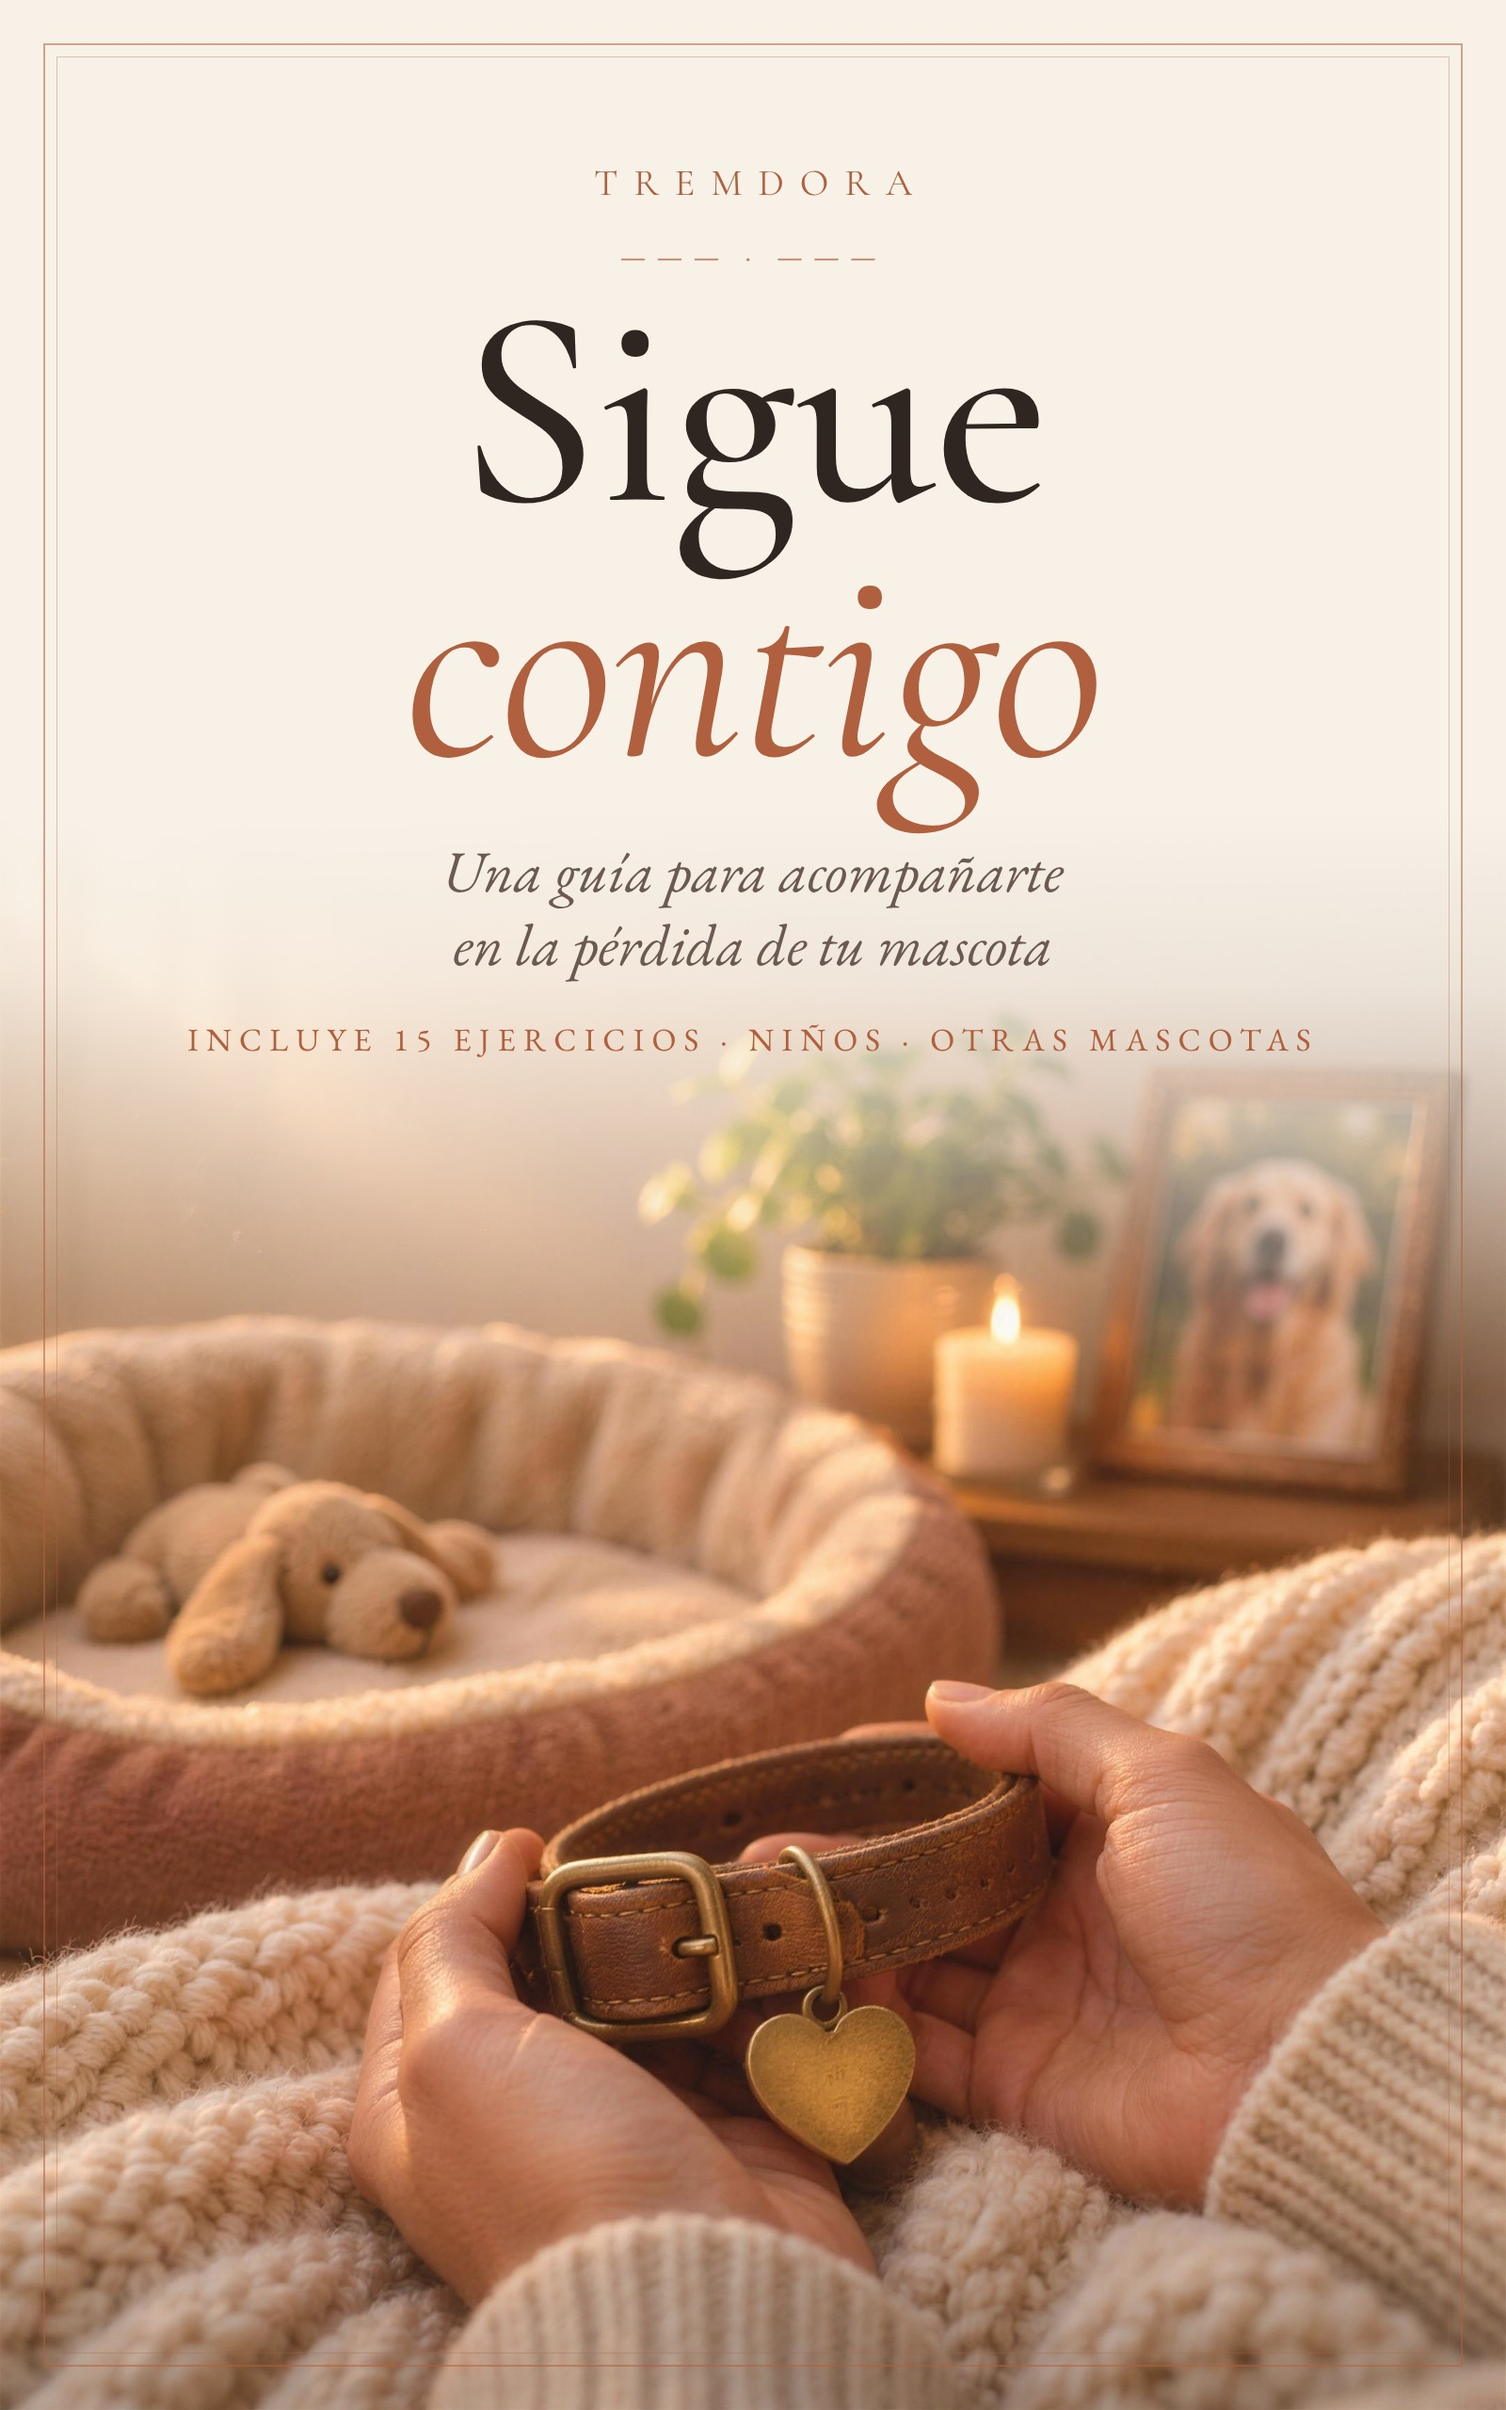
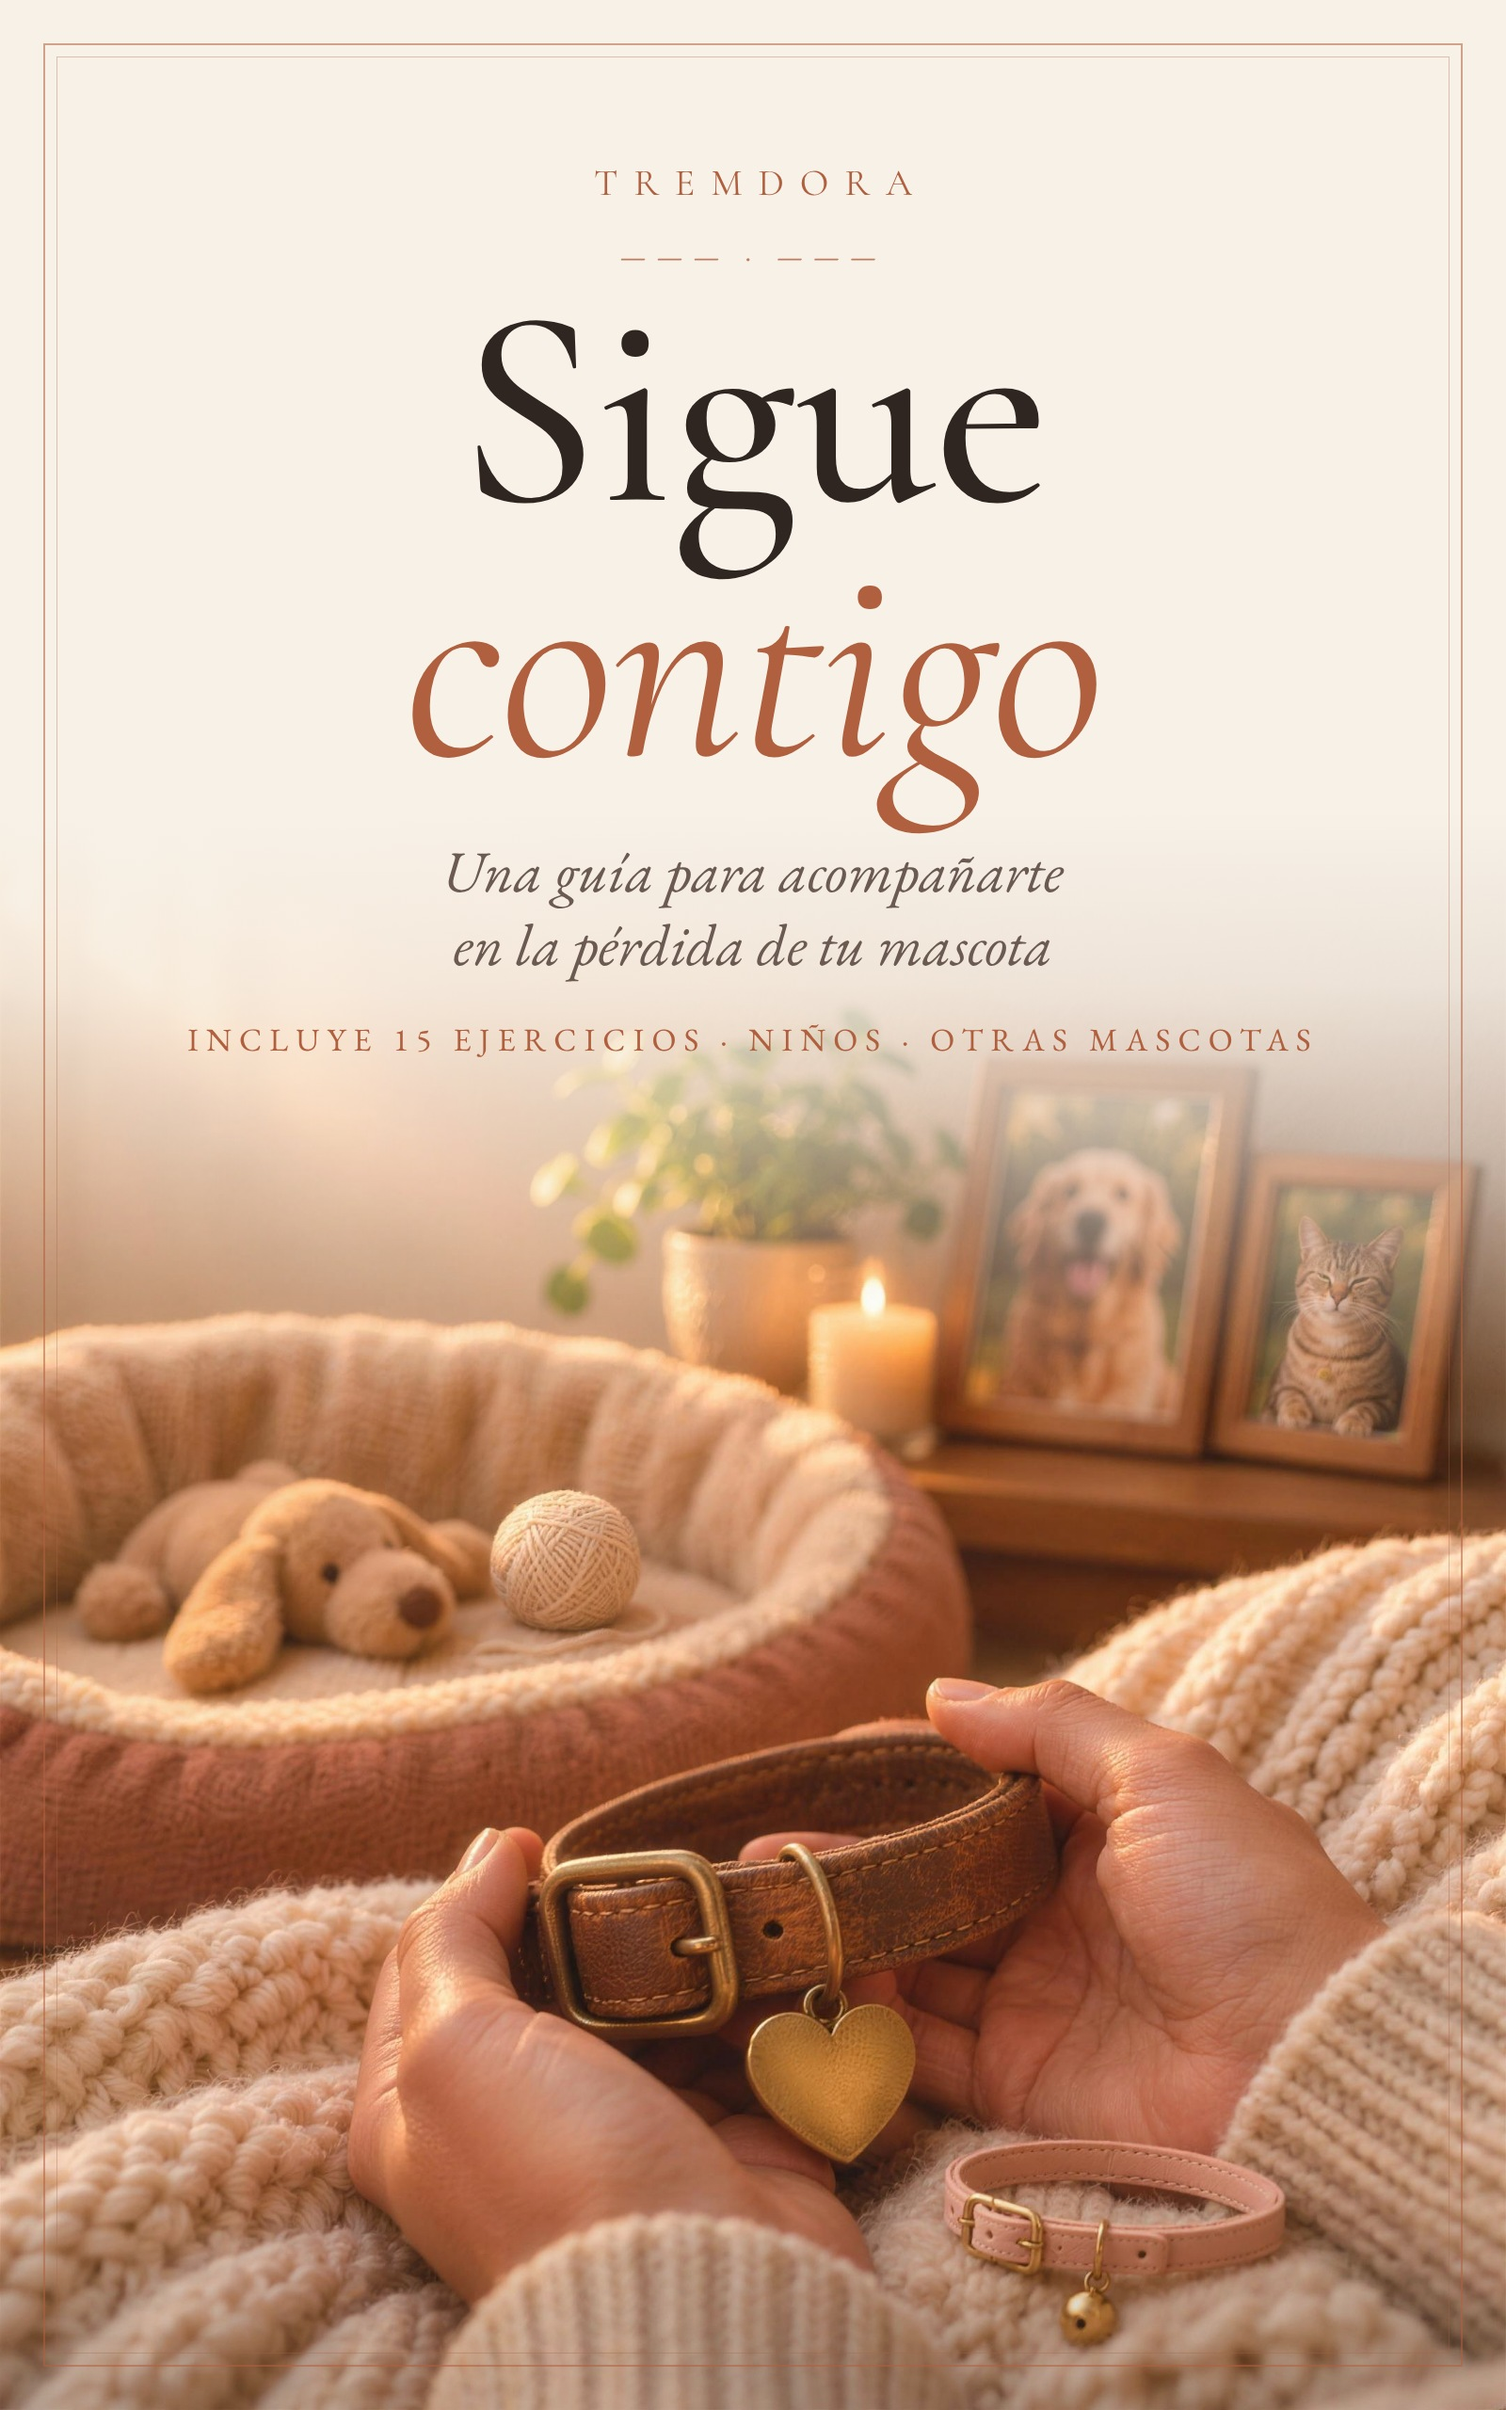
Imagen de portada con elementos de perro y de gato
Claude-Session: https://claude.ai/code/session_01XQXw8XWJq1jnxz4Tfmqjqq

diff --git a/ebook/portada/presentacion.html b/ebook/portada/presentacion.html
@@ -58,7 +58,7 @@
   <div class="col">
     <div class="kicker">Guía digital · Descarga inmediata</div>
     <h1>Su ausencia duele.<br><em>Su amor se queda.</em></h1>
-    <p class="lead">La guía que pone palabras a lo que sientes y te acompaña, paso a paso, a convertir el dolor en recuerdo.</p>
+    <p class="lead">Si has perdido a tu perro o a tu gato, esta guía pone palabras a lo que sientes y te acompaña, paso a paso, a convertir el dolor en recuerdo.</p>
     <ul>
       <li><svg viewBox="0 0 24 24" width="46" height="46"><circle cx="12" cy="12" r="11" fill="#b0603f"/><path d="M7 12.5l3.2 3.2L17 9" fill="none" stroke="#fff" stroke-width="2.4" stroke-linecap="round" stroke-linejoin="round"/></svg>
         <span><b>Por qué duele tanto</b> y por qué no estás exagerando</span></li>
